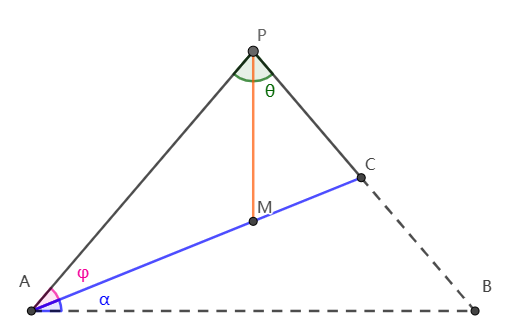
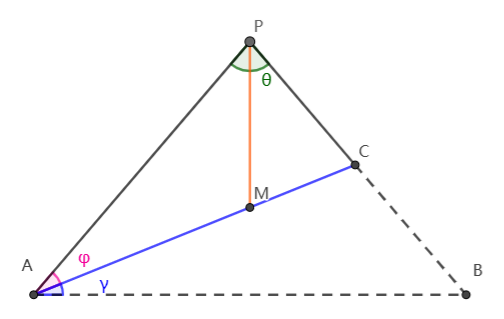
新增名词解释

Changed region(s): [[0.0298, 0.0564, 0.9821, 0.9875], [0.3571, 0.2821, 0.4167, 0.395], [0.3274, 0.395, 0.3571, 0.4514]]

diff --git a/src/C-Solution.tex b/src/C-Solution.tex
@@ -2,7 +2,7 @@
 
 \mcmSubsection{问题1：通过解三角行求出多波束探测的覆盖宽度}
 
-在问题1中，$\alpha$是测垂面与海底坡面的交线与水平面的夹角，实际上正是测坡角。也就是说，在问题一种，存在等式：
+在问题1中，$\alpha$是测垂面与海底坡面的交线与水平面的夹角，实际上正是测坡角。也就是说，在问题一中，存在等式：
 
 \begin{equation}
     \gamma = \alpha
@@ -53,22 +53,53 @@
 解上述方程组以后，可得：
 
 \begin{equation}
-    AC = x_1 + x_2 
-       = \frac{\sin\frac{\theta}{2}}{\sin\varphi}D + \frac{\sin\frac{\theta}{2}}{\sin(\varphi - \theta)}D
+\begin{aligned}
+    AC &= x_1 + x_2 \\
+       &= \frac{\sin\frac{\theta}{2}}{\sin\varphi}D + \frac{\sin\frac{\theta}{2}}{\sin(\varphi + \theta)}D \\
+       &= D\sin\frac{\theta}{2}\left(\frac{1}{\cos(\frac{\theta}{2}+\gamma)} + \frac{1}{\cos(\frac{\theta}{2}-\gamma)}\right)
+\end{aligned}
 \end{equation}
 
 综上，可得如下结论：
 
-\textbf{关键结论1：宽度覆盖公式}
+\begin{mcmTheorem}{覆盖宽度公式}
+    探测船的覆盖宽度$W$，与它的多波束换能器的开角$\theta$、测坡角$\gamma$、距离海底的深度$D$有关，满足如下等式：
 
-探测船的覆盖宽度$W$，与它的多波束换能器的开角$\theta$、测坡角$\gamma$、距离海底的深度$D$有关，满足如下等式：
+    \begin{equation}
+        W = 
+        Proj AC = 
+        D\sin\frac{\theta}{2}\left(\frac{1}{\cos(\frac{\theta}{2}+\gamma)} + \frac{1}{\cos(\frac{\theta}{2}-\gamma)}\right) \cdot \cos \gamma
+        \label{equ:覆盖宽度公式}
+    \end{equation}
+\end{mcmTheorem}
+
+在问题一的情景中，当测量船与中心位置有一定偏移时，深度会发生改变，并且变化量$\Delta D$如图\ref{fig:深度变化}所示。
+
+\begin{figure}[h]
+    \centering
+    \includegraphics[scale=0.5]{res/img/深度变化.png}
+    \caption{深度变化}
+    \label{fig:深度变化}
+\end{figure}
+
+其中，线段$FC$是海平面，平行于线段$AB$，点$E$处是中心位置。为方便描述，设$\overrightarrow{FC}$、$\overrightarrow{EH}$分别为$x$轴、$y$轴正方向。
+
+根据几何关系，易得：
 
 \begin{equation}
-    W = 
-    Proj AC = 
-    \left(\frac{\sin\frac{\theta}{2}}{\sin\varphi}D + \frac{\sin\frac{\theta}{2}}{\sin(\varphi - \theta)}D\right) \cdot \cos \gamma
-    \label{equ:覆盖宽度公式}
+    \Delta D = d\tan\gamma
 \end{equation}
+
+故中心距离
+
+\textbf{关键结论2：海底深度函数}
+
+以海底深度由深到浅为正方向，确定某个中心位置$O$后，某个位置的深度$D(x)$与测坡角$\gamma$、中心位置的深度$D(0)$、与中心的距离$d$有关，满足如下公式：
+
+\begin{equation}
+    D(d) = D(0) + d\tan\gamma
+\end{equation}
+
 
 重叠率定义为：
 
@@ -78,7 +109,7 @@
 
 其中$d$为距离中心点处的距离，$W$为覆盖宽度。
 
-当$\theta = 120^\circ$，$\alpha=\gamma=1.5^\circ$，中心距离$D_0 = 70m$时，带入覆盖宽度公式和重叠率定义，得出下列结果：
+当$\theta = 120^\circ$，$\gamma=\alpha=1.5^\circ$，中心距离$D_5 = 70m$时，带入覆盖宽度公式和重叠率定义，得出下列结果：
 
 % Please add the following required packages to your document preamble:
 % \usepackage{booktabs}

diff --git a/src/B-Analysis.tex b/src/B-Analysis.tex
@@ -43,7 +43,7 @@
 \end{enumerate}
 
 % ==================================================
-% @brief    模型假设
+% @brief    模型假设$$
 % ==================================================
 
 \mcmSection{符号说明及名称定义}
@@ -51,11 +51,19 @@
 \mcmSubsection{名称定义}
 
 \begin{enumerate}
-    \item \textbf{测垂面}是指与测线方向垂直的平面（A plane perpendicular to the survey line.）；
-    \item \textbf{测坡线}是指测线的测垂面与海底坡面的交线；
-    \item \textbf{测坡角}是指测坡线与水平面的夹角（$\gamma$）；
-    \item \textbf{海底坡面的倾斜角}是指海底坡面与水平面的夹角。
+    \item \textbf{测垂面}是指与测线方向垂直的平面（如图\ref{fig:符号说明}中平面$GIH$）；
+    \item \textbf{测坡线}是指测线的测垂面与海底坡面的交线（如图\ref{fig:符号说明}中线段$IH$）；
+    \item \textbf{测坡角}是指测坡线与水平面的夹角（如图\ref{fig:符号说明}中线段$IH$与水平面的夹角）；
+    \item \textbf{海底坡面的倾斜角}是指海底坡面与水平面的夹角（如图\ref{fig:符号说明}中$\alpha$角）。\newline
 \end{enumerate}
+
+\begin{figure}[h]
+    \centering
+    \includegraphics[scale=0.4]{res/img/符号说明.png}
+    \caption{符号说明}
+    \label{fig:符号说明}
+\end{figure}
+
 
 \mcmSubsection{符号说明}
 
@@ -73,15 +81,9 @@
         \hline
         \textbf{\fontsize{13}{1.5}{符号}}            & \textbf{\fontsize{13}{1.5}{意义}}                       \\ \hline
 
-        $horizontal$     & 水平面     \\
-        $Undersea slope$      & 海底坡面 \\
-        $$       & 测垂面 \\
-        $w_{n,l}$     & 文档$n$中第$l$个分词对应的主题编号     \\
-        $\varphi_{k}$ & 主题$k$的词汇分布               \\
-        $M_{diff}$    & 题目难度矩阵                   \\
-        $L_{weight}$  & 题目难度值                    \\
-        $L_D$         & 题目难度系数序列                 \\
-        $S_{level}$   & 难度度量等级集合                 \\ \hline
+        $\alpha$     & 海底坡面的倾斜角     \\
+        $\beta$      & 测线的方向角 \\
+        $\gamma$       & 测坡角 \\ \hline
         \end{tabular}
     
     }

diff --git a/src/A-Cover.tex b/src/A-Cover.tex
@@ -1,7 +1,7 @@
 \thispagestyle{empty}   % 定义起始页的页眉页脚格式为 empty —— 空，也就没有页眉页脚
 
 \begin{center}
-    \textbf{\fontsize{20}{1.5}通过化学反应对一氧化二氢进行热传导使之转变为游离态的一种方法}
+    \textbf{\fontsize{20}{1.5}多波束测线问题}
 
     \textbf{摘　要}
 \end{center}
